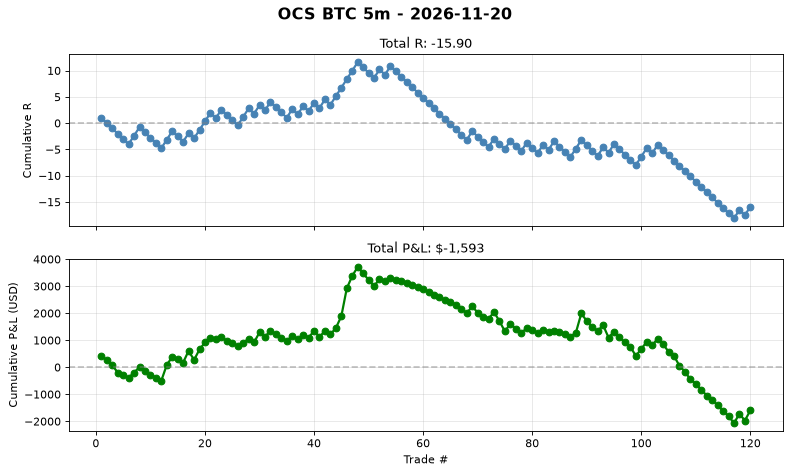
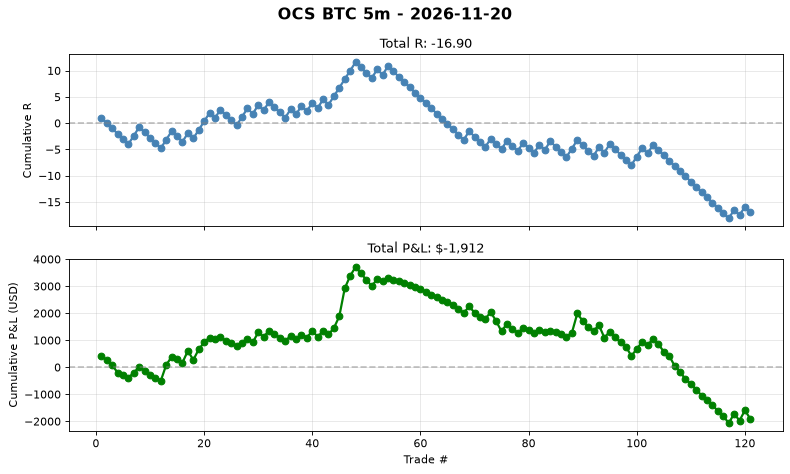
auto(ocs-btc): signal log 2026-11-19T23:34 trades=121

diff --git a/automation/reports/ocs_btc_5m/daily/2026-11-20.md b/automation/reports/ocs_btc_5m/daily/2026-11-20.md
@@ -2,4 +2,4 @@
 
 **No trades today.**
 
-Cumulative stats: 120 trades | WR 33.3% | avg R -0.132
+Cumulative stats: 121 trades | WR 33.1% | avg R -0.14
